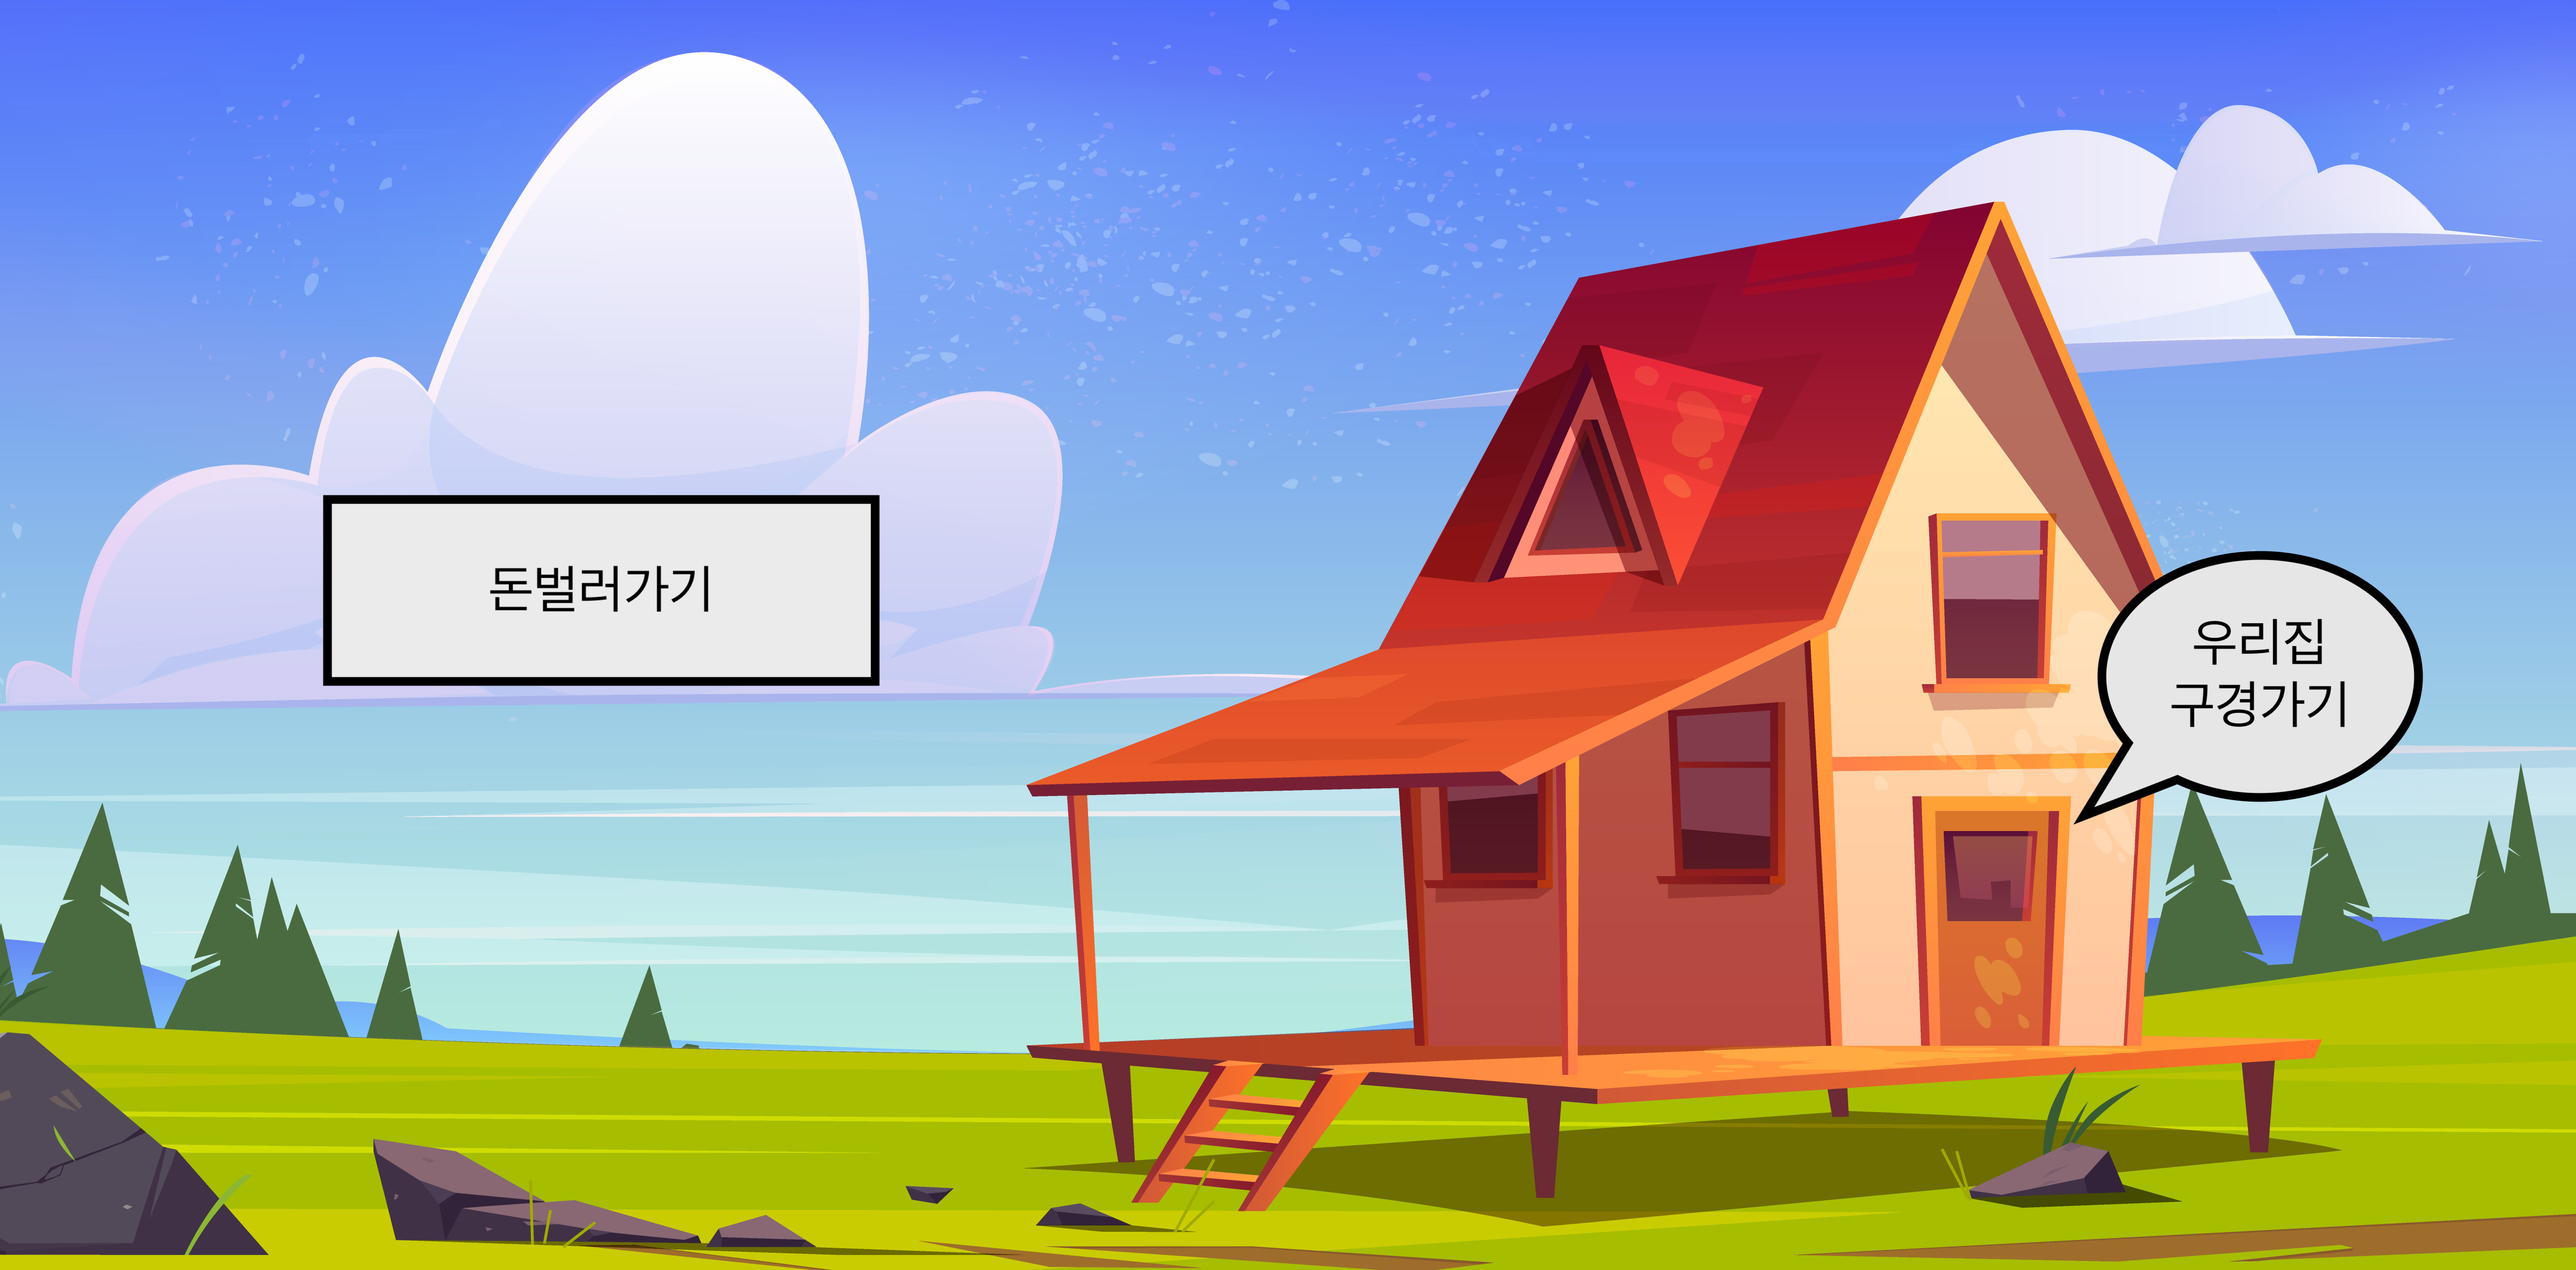
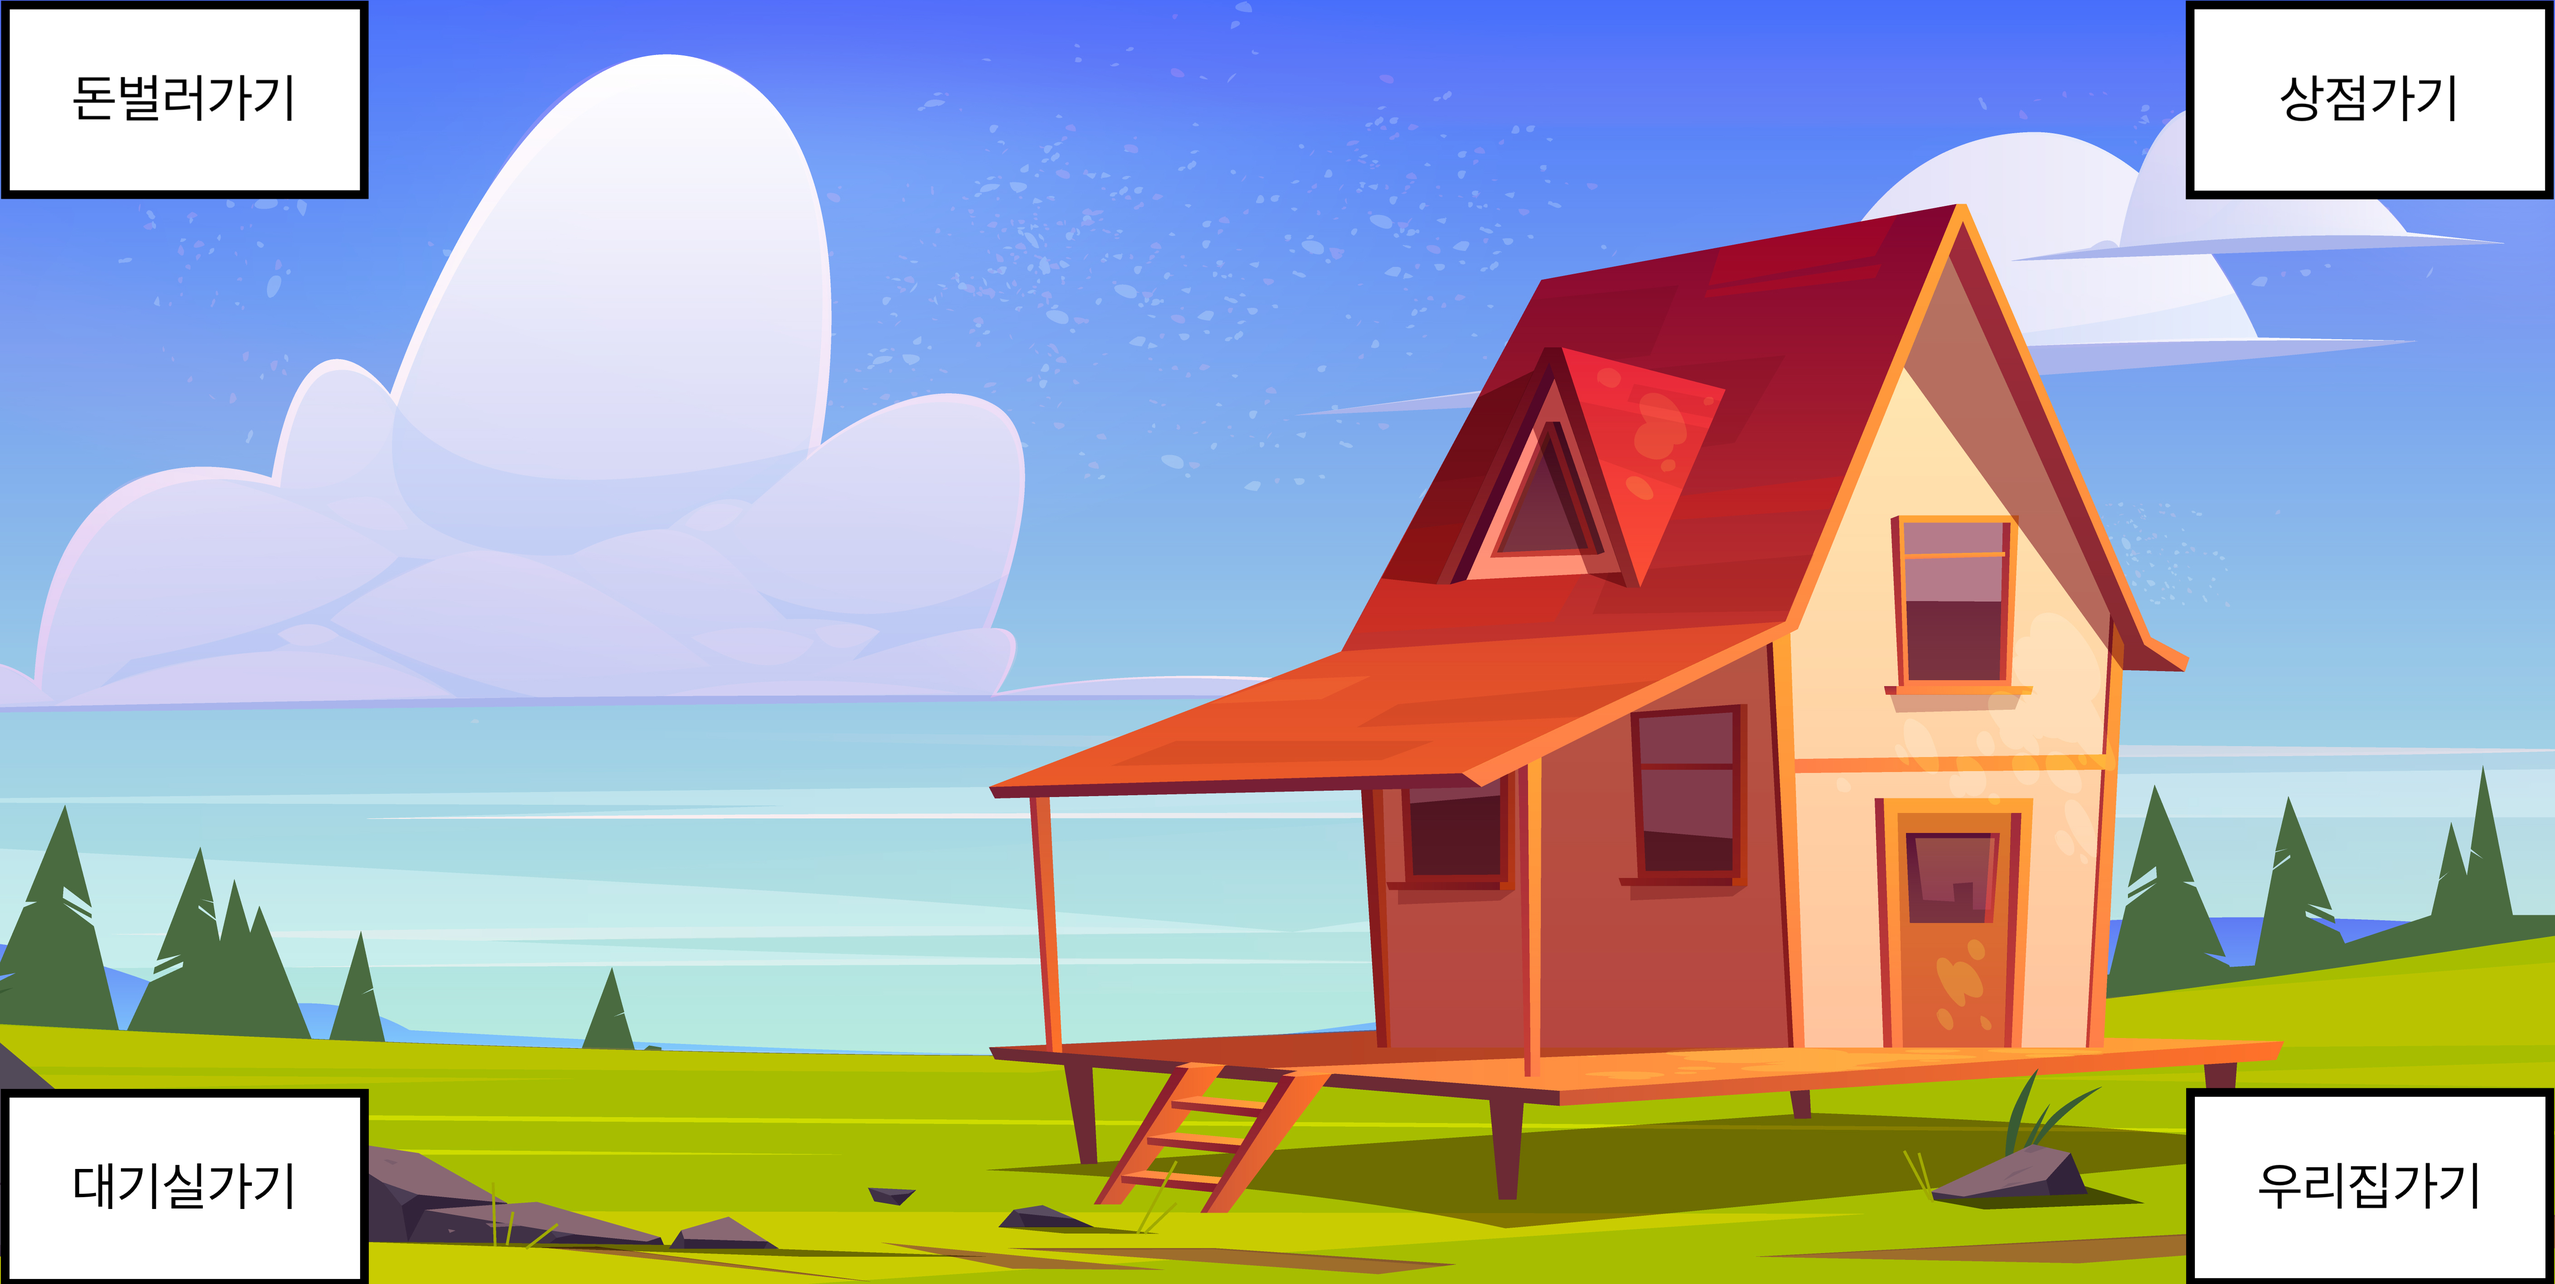
FEAT: 1. Add Room, Shop box 2. Add No-support message when width is under 1100px

diff --git a/index.html b/index.html
@@ -11,7 +11,7 @@
   <script src="https://cdn.jsdelivr.net/npm/bootstrap@5.1.3/dist/js/bootstrap.bundle.min.js" integrity="sha384-ka7Sk0Gln4gmtz2MlQnikT1wXgYsOg+OMhuP+IlRH9sENBO0LRn5q+8nbTov4+1p" crossorigin="anonymous"></script>
 </head>
 <body>
-  
+  <div id="no-support">화면 넓이를 1100px 이상 확보해주세요!!</div>
   <div class="canvas-container p-3">
     <canvas id="canvas"></canvas>
     <div class="status">
@@ -20,10 +20,12 @@
     </div>
   </div>
   
-  <h2 class="leftTimeWrapper hidden">남은시간 : <span id="leftTime"></span></h2>
-  <h2 class="scoreWrapper hidden">점수 : <span id="score"></span></h2>
-  <p class="gameMessage hidden"></p>
-  
+  <div class="messageGroup">
+    <h2 class="leftTimeWrapper hidden">남은시간 : <span id="leftTime"></span></h2>
+    <h2 class="scoreWrapper hidden">점수 : <span id="score"></span></h2>
+    <p class="gameMessage hidden"></p>
+  </div>
+    
   <script type="module" src="/src/js/main.js"></script>
 </body>
 </html>

diff --git a/src/js/beforeStart.js b/src/js/beforeStart.js
@@ -4,17 +4,31 @@ import { canvas, ctx } from '/src/js/gameObject.js';
 import { Man, Money } from "/src/js/gameObject.js";
 
 var btn_getMoney = {
-  x: 134,
-  y: 203.5,
-  width: 220,
-  height: 74,
+  x: 0,
+  y: 0,
+  width: 150,
+  height: 80,
 };
 
 var btn_goRoom = {
-  x: 774,
-  y: 324.5,
-  width: 58,
-  height: 96,
+  x: 875,
+  y: 450,
+  width: 150,
+  height: 80,
+};
+
+var btn_goShop = {
+  x: 875,
+  y: 0,
+  width: 150,
+  height: 80,
+};
+
+var btn_goMain = {
+  x: 0,
+  y: 440,
+  width: 150,
+  height: 80,
 };
 
 var icon_man = new Man();
@@ -45,7 +59,14 @@ export function mainFrame() {
       gameStart();
     }
   }
-  if (isInside(icon_man, btn_goRoom)) {
+  else if (isInside(icon_man, btn_goMain)) {
+    console.log("main");
+  }
+  else if (isInside(icon_man, btn_goRoom)) {
+    console.log("room");
+  }
+  else if (isInside(icon_man, btn_goShop)) {
+    console.log("shop");
   }
 
   icon_man_off_flag ? icon_man.hidden() : icon_man.draw();

diff --git a/src/css/style.css b/src/css/style.css
@@ -1,5 +1,18 @@
+@media screen and (max-width: 1100px){
+  #no-support{
+    display: block!important;
+  }
+  .messageGroup, .canvas-container, body input{
+    display: none!important;
+  }
+}
+
 * {
   font-family: Galmuri9, sans-serif;
+}
+
+body{
+  width: 1050px;
 }
 
 #canvas {
@@ -44,4 +57,11 @@
   top : 33px;
   font-size : 30px;
   background-color : white;
+}
+
+#no-support{
+  text-align: center;
+  font-size: 50px;
+  display: none;
+  z-index: 100;
 }
